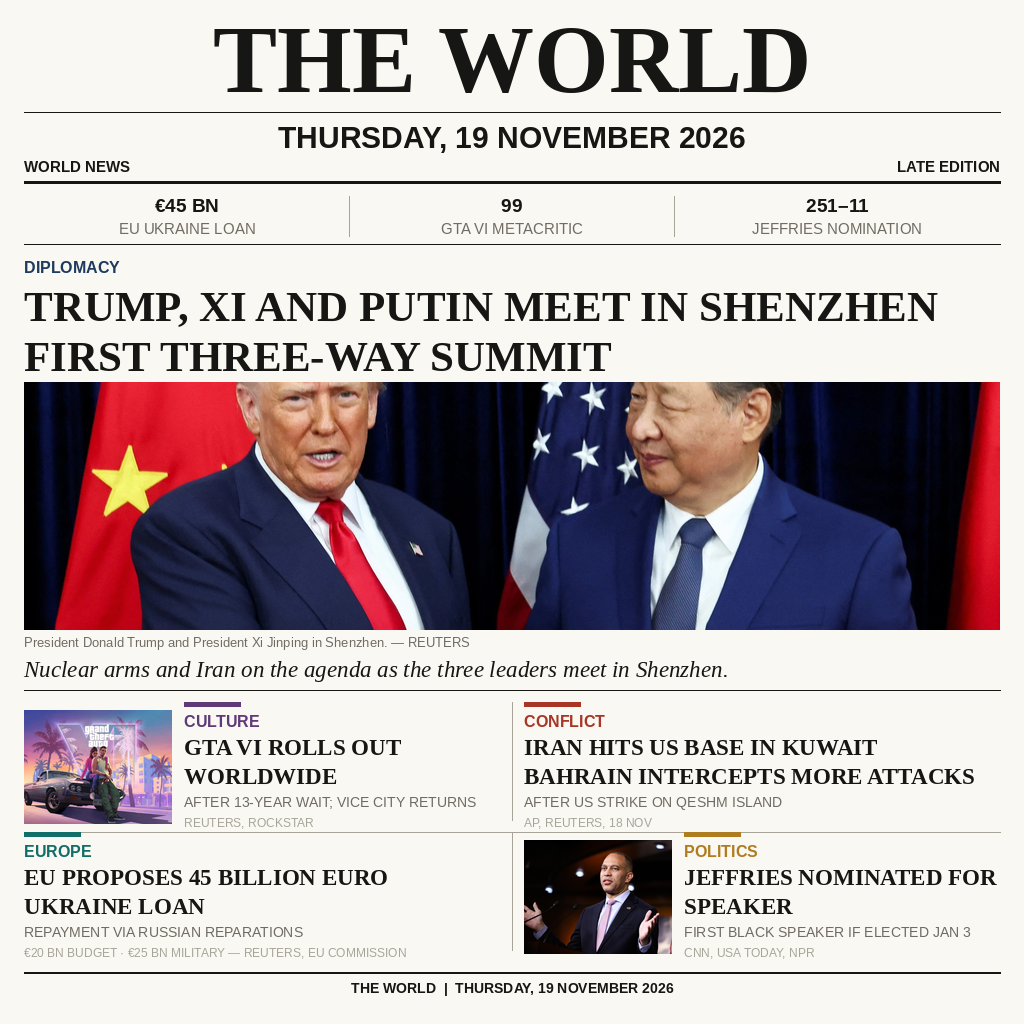
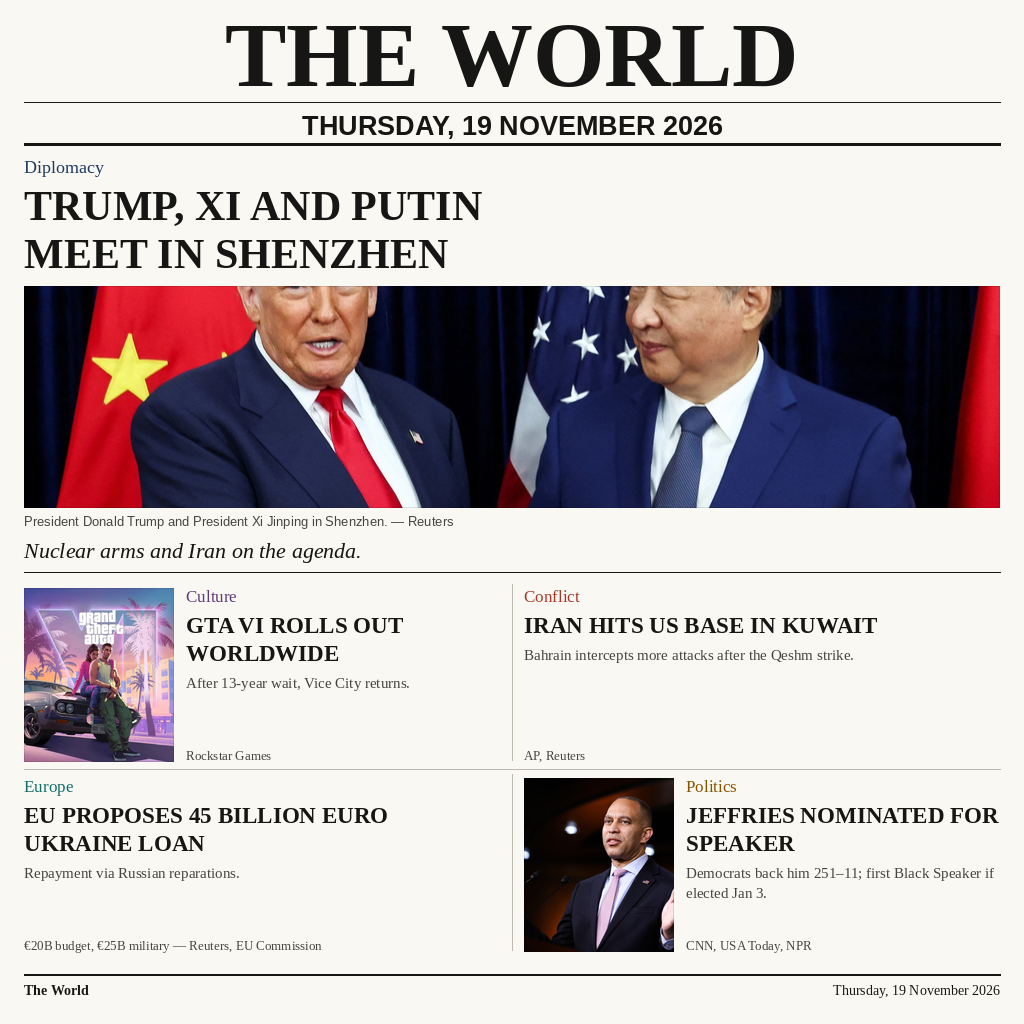
Rebuild v2: Hallmark + feel-better + Stageshow + Pro Max redesign

diff --git a/main.py b/main.py
@@ -1,174 +1,213 @@
 import os
 from PIL import Image, ImageDraw, ImageFont, ImageOps
 
-BASE = os.path.dirname(os.path.abspath(__file__))
-OUT = os.path.join(os.environ.get("MAKEFUN_OUTPUT_DIR", os.path.join(BASE, "out")), "entry.png")
+ROOT = os.path.dirname(os.path.abspath(__file__))
+DEST = os.path.join(os.environ.get("MAKEFUN_OUTPUT_DIR", os.path.join(ROOT, "out")), "entry.png")
 
-W, H = 1024, 1024
+PAGE_W, PAGE_H = 1024, 1024
+MARGIN = 24
+CONTENT_W = PAGE_W - 2 * MARGIN
+COL_W = (CONTENT_W - 24) // 2
+
 PAPER = (250, 248, 242)
 INK = (22, 22, 20)
-GRAY = (112, 108, 100)
-FAINT = (168, 164, 154)
+BODY_GRAY = (70, 68, 64)
+HAIRLINE = (190, 186, 176)
 NAVY = (31, 58, 95)
 BRICK = (168, 54, 38)
-PURPLE = (96, 58, 120)
+PLUM = (96, 58, 120)
 TEAL = (18, 110, 105)
-OCHRE = (176, 124, 32)
+OCHRE = (133, 84, 0)
 
-SERIF = "/usr/share/fonts/truetype/liberation/LiberationSerif-Bold.ttf"
-SERIF_REG = "/usr/share/fonts/truetype/liberation/LiberationSerif-Regular.ttf"
-SERIF_IT = "/usr/share/fonts/truetype/liberation/LiberationSerif-Italic.ttf"
+SERIF_BOLD = "/usr/share/fonts/truetype/liberation/LiberationSerif-Bold.ttf"
+SERIF = "/usr/share/fonts/truetype/liberation/LiberationSerif-Regular.ttf"
+SERIF_ITALIC = "/usr/share/fonts/truetype/liberation/LiberationSerif-Italic.ttf"
 SANS = "/usr/share/fonts/truetype/liberation/LiberationSans-Regular.ttf"
-SANS_B = "/usr/share/fonts/truetype/liberation/LiberationSans-Bold.ttf"
+SANS_BOLD = "/usr/share/fonts/truetype/liberation/LiberationSans-Bold.ttf"
+
+HERO_KICKER = "Diplomacy"
+HERO_HEADLINE = "TRUMP, XI AND PUTIN MEET IN SHENZHEN"
+HERO_CAPTION = "President Donald Trump and President Xi Jinping in Shenzhen. — Reuters"
+HERO_DECK = "Nuclear arms and Iran on the agenda."
+
+CARDS = [
+    {
+        "kicker": "Culture", "color": PLUM,
+        "headline": "GTA VI ROLLS OUT WORLDWIDE",
+        "sub": "After 13-year wait, Vice City returns.",
+        "source": "Rockstar Games",
+        "photo": "gta.jpg",
+    },
+    {
+        "kicker": "Conflict", "color": BRICK,
+        "headline": "IRAN HITS US BASE IN KUWAIT",
+        "sub": "Bahrain intercepts more attacks after the Qeshm strike.",
+        "source": "AP, Reuters",
+        "photo": None,
+    },
+    {
+        "kicker": "Europe", "color": TEAL,
+        "headline": "EU PROPOSES 45 BILLION EURO UKRAINE LOAN",
+        "sub": "Repayment via Russian reparations.",
+        "source": "\u20ac20B budget, \u20ac25B military \u2014 Reuters, EU Commission",
+        "photo": None,
+    },
+    {
+        "kicker": "Politics", "color": OCHRE,
+        "headline": "JEFFRIES NOMINATED FOR SPEAKER",
+        "sub": "Democrats back him 251\u201311; first Black Speaker if elected Jan 3.",
+        "source": "CNN, USA Today, NPR",
+        "photo": "jeffries.jpg",
+    },
+]
 
 
-def font(path, size):
+def load(path, size):
     return ImageFont.truetype(path, size)
 
 
-def wrap(draw, text, fnt, width):
-    out = []
-    for part in text.split("\n"):
-        words = part.split()
-        lines, cur = [], ""
+def fit_lines(draw, text, face, width):
+    lines = []
+    for chunk in text.split("\n"):
+        words = chunk.split()
+        current = ""
         for word in words:
-            trial = word if not cur else cur + " " + word
-            if draw.textlength(trial, font=fnt) <= width:
-                cur = trial
+            trial = word if not current else current + " " + word
+            if draw.textlength(trial, font=face) <= width:
+                current = trial
             else:
-                lines.append(cur)
-                cur = word
-        if cur:
-            lines.append(cur)
-        out.extend(lines)
-    return out
+                lines.append(current)
+                current = word
+        if current:
+            lines.append(current)
+    return lines
 
 
-def centre(draw, y, text, fnt, fill, cx=W // 2):
-    draw.text((cx, y), text, font=fnt, fill=fill, anchor="ma")
+def balanced_pair(draw, text, face, width):
+    words = text.split()
+    best = None
+    for cut in range(1, len(words)):
+        first = " ".join(words[:cut])
+        second = " ".join(words[cut:])
+        w1 = draw.textlength(first, font=face)
+        w2 = draw.textlength(second, font=face)
+        if w1 > width or w2 > width:
+            continue
+        gap = abs(w1 - w2)
+        if best is None or gap < best[0]:
+            best = (gap, [first, second])
+    return best[1]
 
 
-def rule(draw, x0, x1, y, fill=INK, width=1):
-    draw.line([(x0, y), (x1, y)], fill=fill, width=width)
+def crop_to(name, width, height, focus_y=0.5):
+    shot = Image.open(os.path.join(ROOT, "assets", name)).convert("RGB")
+    return ImageOps.fit(shot, (width, height), Image.LANCZOS, centering=(0.5, focus_y))
 
 
-def fit(path, tw, th, cy=0.45):
-    im = Image.open(os.path.join(BASE, "assets", path)).convert("RGB")
-    return ImageOps.fit(im, (tw, th), Image.LANCZOS, centering=(0.5, cy))
+def hline(draw, x0, x1, y, color=INK, px=1):
+    draw.line([(x0, y), (x1, y)], fill=color, width=px)
 
 
-def kicker(draw, x, y, label, color, fnt):
-    draw.text((x, y), label, font=fnt, fill=color)
+def render_card(page, draw, card, x, top, row_h):
+    thumb_w = 150
+    if card["photo"]:
+        shot = crop_to(card["photo"], thumb_w, row_h - 8, 0.5)
+        page.paste(shot, (x, top + 4))
+        text_x = x + thumb_w + 12
+        text_w = COL_W - thumb_w - 12
+    else:
+        text_x = x
+        text_w = COL_W
+
+    kicker_face = load(SERIF, 17)
+    draw.text((text_x, top + 2), card["kicker"], font=kicker_face, fill=card["color"])
+
+    head_face = load(SERIF_BOLD, 23)
+    lines = fit_lines(draw, card["headline"], head_face, text_w)
+    assert len(lines) <= 3, (card["kicker"], lines)
+    y = top + 28
+    for line in lines:
+        draw.text((text_x, y), line, font=head_face, fill=INK)
+        y += 28
+
+    sub_face = load(SERIF, 15)
+    sub_lines = fit_lines(draw, card["sub"], sub_face, text_w)
+    assert len(sub_lines) <= 2, (card["kicker"], sub_lines)
+    y += 6
+    for line in sub_lines:
+        draw.text((text_x, y), line, font=sub_face, fill=BODY_GRAY)
+        y += 20
+
+    src_face = load(SERIF, 13)
+    draw.text((text_x, top + row_h - 18), card["source"], font=src_face, fill=BODY_GRAY)
 
 
 def main():
-    img = Image.new("RGB", (W, H), PAPER)
-    d = ImageDraw.Draw(img)
-    mx = 24
-    rx = W - mx
-    cw = rx - mx
+    page = Image.new("RGBA", (PAGE_W, PAGE_H), PAPER + (255,))
+    draw = ImageDraw.Draw(page)
+    right = PAGE_W - MARGIN
+    outlines = []
 
-    mast = font(SERIF, 96)
-    centre(d, 6, "THE WORLD", mast, INK)
-    rule(d, mx, rx, 112, INK, 1)
-    date_f = font(SANS_B, 30)
-    centre(d, 120, "THURSDAY, 19 NOVEMBER 2026", date_f, INK)
-    small = font(SANS_B, 15)
-    d.text((mx, 158), "WORLD NEWS", font=small, fill=INK)
-    d.text((rx, 158), "LATE EDITION", font=small, fill=INK, anchor="ra")
-    rule(d, mx, rx, 182, INK, 3)
+    mast_face = load(SERIF_BOLD, 92)
+    draw.text((PAGE_W // 2, 4), "THE WORLD", font=mast_face, fill=INK, anchor="ma")
+    hline(draw, MARGIN, right, 102)
+    date_face = load(SANS_BOLD, 27)
+    draw.text((PAGE_W // 2, 110), "THURSDAY, 19 NOVEMBER 2026", font=date_face, fill=INK, anchor="ma")
+    hline(draw, MARGIN, right, 144, px=3)
 
-    strip = font(SANS_B, 19)
-    strip_s = font(SANS, 15)
-    cells = [("€45 BN", "EU UKRAINE LOAN"), ("99", "GTA VI METACRITIC"), ("251–11", "JEFFRIES NOMINATION")]
-    third = cw / 3
-    for i, (num, lab) in enumerate(cells):
-        cx = mx + third * i + third / 2
-        d.text((cx, 194), num, font=strip, fill=INK, anchor="ma")
-        d.text((cx, 220), lab, font=strip_s, fill=GRAY, anchor="ma")
-        if i:
-            d.line([(mx + third * i, 196), (mx + third * i, 236)], fill=FAINT, width=1)
-    rule(d, mx, rx, 244, INK, 1)
+    kicker_face = load(SERIF, 18)
+    draw.text((MARGIN, 156), HERO_KICKER, font=kicker_face, fill=NAVY)
 
-    kick = font(SANS_B, 16)
-    kicker(d, mx, 258, "DIPLOMACY", NAVY, kick)
-    hero_f = font(SERIF, 43)
-    h1 = wrap(d, "TRUMP, XI AND PUTIN MEET IN SHENZHEN", hero_f, cw)
-    h2 = wrap(d, "FIRST THREE-WAY SUMMIT", hero_f, cw)
-    assert len(h1) == 1 and len(h2) == 1, (h1, h2)
-    y = 282
-    for line in h1 + h2:
-        d.text((mx, y), line, font=hero_f, fill=INK)
-        y += 50
+    hero_face = load(SERIF_BOLD, 42)
+    hero_lines = balanced_pair(draw, HERO_HEADLINE, hero_face, CONTENT_W)
+    y = 182
+    for line in hero_lines:
+        draw.text((MARGIN, y), line, font=hero_face, fill=INK)
+        y += 48
 
-    photo = fit("hero.jpg", cw, 248, 0.28)
-    img.paste(photo, (mx, y))
-    y += 248
-    cred = font(SANS, 13)
-    d.text((mx, y + 5), "President Donald Trump and President Xi Jinping in Shenzhen. — REUTERS", font=cred, fill=GRAY)
-    y += 26
-    deck = font(SERIF_IT, 23)
-    deck_lines = wrap(d, "Nuclear arms and Iran on the agenda as the three leaders meet in Shenzhen.", deck, cw)
-    assert len(deck_lines) == 1, deck_lines
-    d.text((mx, y), deck_lines[0], font=deck, fill=INK)
-    y += 34
-    rule(d, mx, rx, y, INK, 1)
-    y += 12
+    hero = crop_to("hero.jpg", CONTENT_W, 222, 0.30)
+    page.paste(hero, (MARGIN, 286))
+    outlines.append((MARGIN, 286, MARGIN + CONTENT_W - 1, 286 + 222 - 1))
 
-    grid_top = y
-    col_w = (cw - 24) // 2
-    row_h = (972 - grid_top - 10) // 2
-    cards = [
-        ("CULTURE", PURPLE, "GTA VI ROLLS OUT WORLDWIDE", "gta.jpg", "REUTERS, ROCKSTAR"),
-        ("CONFLICT", BRICK, "IRAN HITS US BASE IN KUWAIT\nBAHRAIN INTERCEPTS MORE ATTACKS", None, "AP, REUTERS, 18 NOV"),
-        ("EUROPE", TEAL, "EU PROPOSES 45 BILLION EURO UKRAINE LOAN", None, "€20 BN BUDGET · €25 BN MILITARY — REUTERS, EU COMMISSION"),
-        ("POLITICS", OCHRE, "JEFFRIES NOMINATED FOR SPEAKER", "jeffries.jpg", "CNN, USA TODAY, NPR"),
-    ]
-    subs = [
-        "AFTER 13-YEAR WAIT; VICE CITY RETURNS",
-        "AFTER US STRIKE ON QESHM ISLAND",
-        "REPAYMENT VIA RUSSIAN REPARATIONS",
-        "FIRST BLACK SPEAKER IF ELECTED JAN 3",
-    ]
-    head_f = font(SERIF, 23)
-    sub_f = font(SANS, 14)
-    src_f = font(SANS, 12)
-    for idx, (label, color, head, photo_name, src) in enumerate(cards):
+    cap_face = load(SANS, 13)
+    draw.text((MARGIN, 514), HERO_CAPTION, font=cap_face, fill=BODY_GRAY)
+    deck_face = load(SERIF_ITALIC, 22)
+    draw.text((MARGIN, 538), HERO_DECK, font=deck_face, fill=INK)
+    hline(draw, MARGIN, right, 572)
+
+    row_h = 182
+    grid_top = 584
+    for idx, card in enumerate(CARDS):
         col = idx % 2
         row = idx // 2
-        x = mx + col * (col_w + 24)
-        top = grid_top + row * row_h
-        tx = x
-        tw = col_w
-        if photo_name:
-            ph = fit(photo_name, 148, row_h - 16)
-            img.paste(ph, (x, top + 8))
-            tx = x + 160
-            tw = col_w - 160
-        d.rectangle([(tx, top), (tx + 56, top + 4)], fill=color)
-        kicker(d, tx, top + 10, label, color, kick)
-        hl = wrap(d, head, head_f, tw)
-        assert len(hl) <= 2, (label, hl)
-        ty = top + 32
-        for line in hl:
-            d.text((tx, ty), line, font=head_f, fill=INK)
-            ty += 29
-        sl = wrap(d, subs[idx], sub_f, tw)
-        assert len(sl) == 1, (label, sl)
-        d.text((tx, ty + 2), sl[0], font=sub_f, fill=GRAY)
-        d.text((tx, ty + 24), src, font=src_f, fill=FAINT)
+        x = MARGIN + col * (COL_W + 24)
+        top = grid_top + row * (row_h + 8)
+        if card["photo"]:
+            outlines.append((x, top + 4, x + 150 - 1, top + 4 + row_h - 8 - 1))
+        render_card(page, draw, card, x, top, row_h)
         if col == 0:
-            d.line([(x + col_w + 12, top), (x + col_w + 12, top + row_h - 12)], fill=FAINT, width=1)
+            draw.line(
+                [(x + COL_W + 12, top), (x + COL_W + 12, top + row_h - 6)],
+                fill=HAIRLINE, width=1,
+            )
         if row == 0:
-            rule(d, mx, rx, top + row_h, FAINT, 1)
+            hline(draw, MARGIN, right, top + row_h + 3, color=HAIRLINE)
 
-    rule(d, mx, rx, 972, INK, 2)
-    foot = font(SANS_B, 14)
-    centre(d, 980, "THE WORLD  |  THURSDAY, 19 NOVEMBER 2026", foot, INK)
+    hline(draw, MARGIN, right, 974, px=2)
+    foot_bold = load(SERIF_BOLD, 14)
+    foot_reg = load(SERIF, 14)
+    draw.text((MARGIN, 982), "The World", font=foot_bold, fill=INK)
+    draw.text((right, 982), "Thursday, 19 November 2026", font=foot_reg, fill=INK, anchor="ra")
 
-    os.makedirs(os.path.dirname(OUT), exist_ok=True)
-    img.save(OUT, optimize=True)
-    print("wrote", OUT)
+    veil = Image.new("RGBA", page.size, (0, 0, 0, 0))
+    veil_draw = ImageDraw.Draw(veil)
+    for box in outlines:
+        veil_draw.rectangle(box, outline=(0, 0, 0, 26), width=1)
+    page = Image.alpha_composite(page, veil)
+
+    os.makedirs(os.path.dirname(DEST), exist_ok=True)
+    page.convert("RGB").save(DEST, optimize=True)
+    print("wrote", DEST)
 
 
 if __name__ == "__main__":
